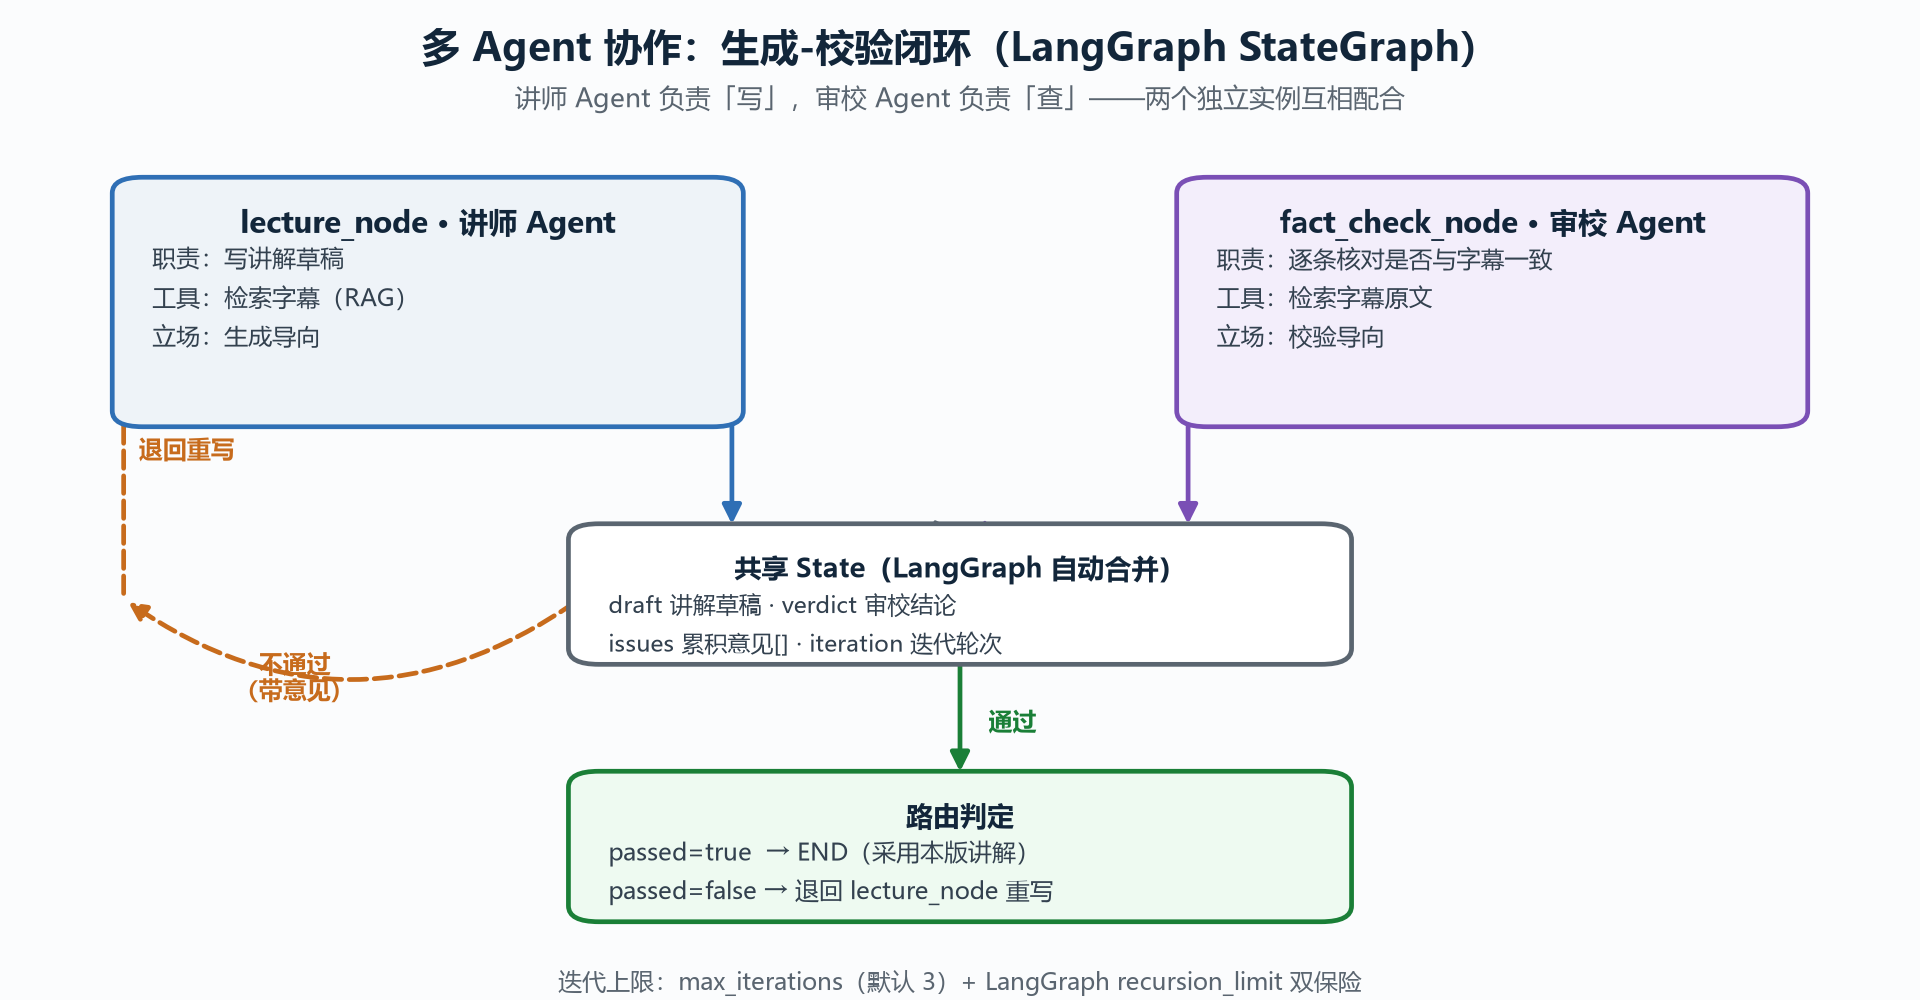
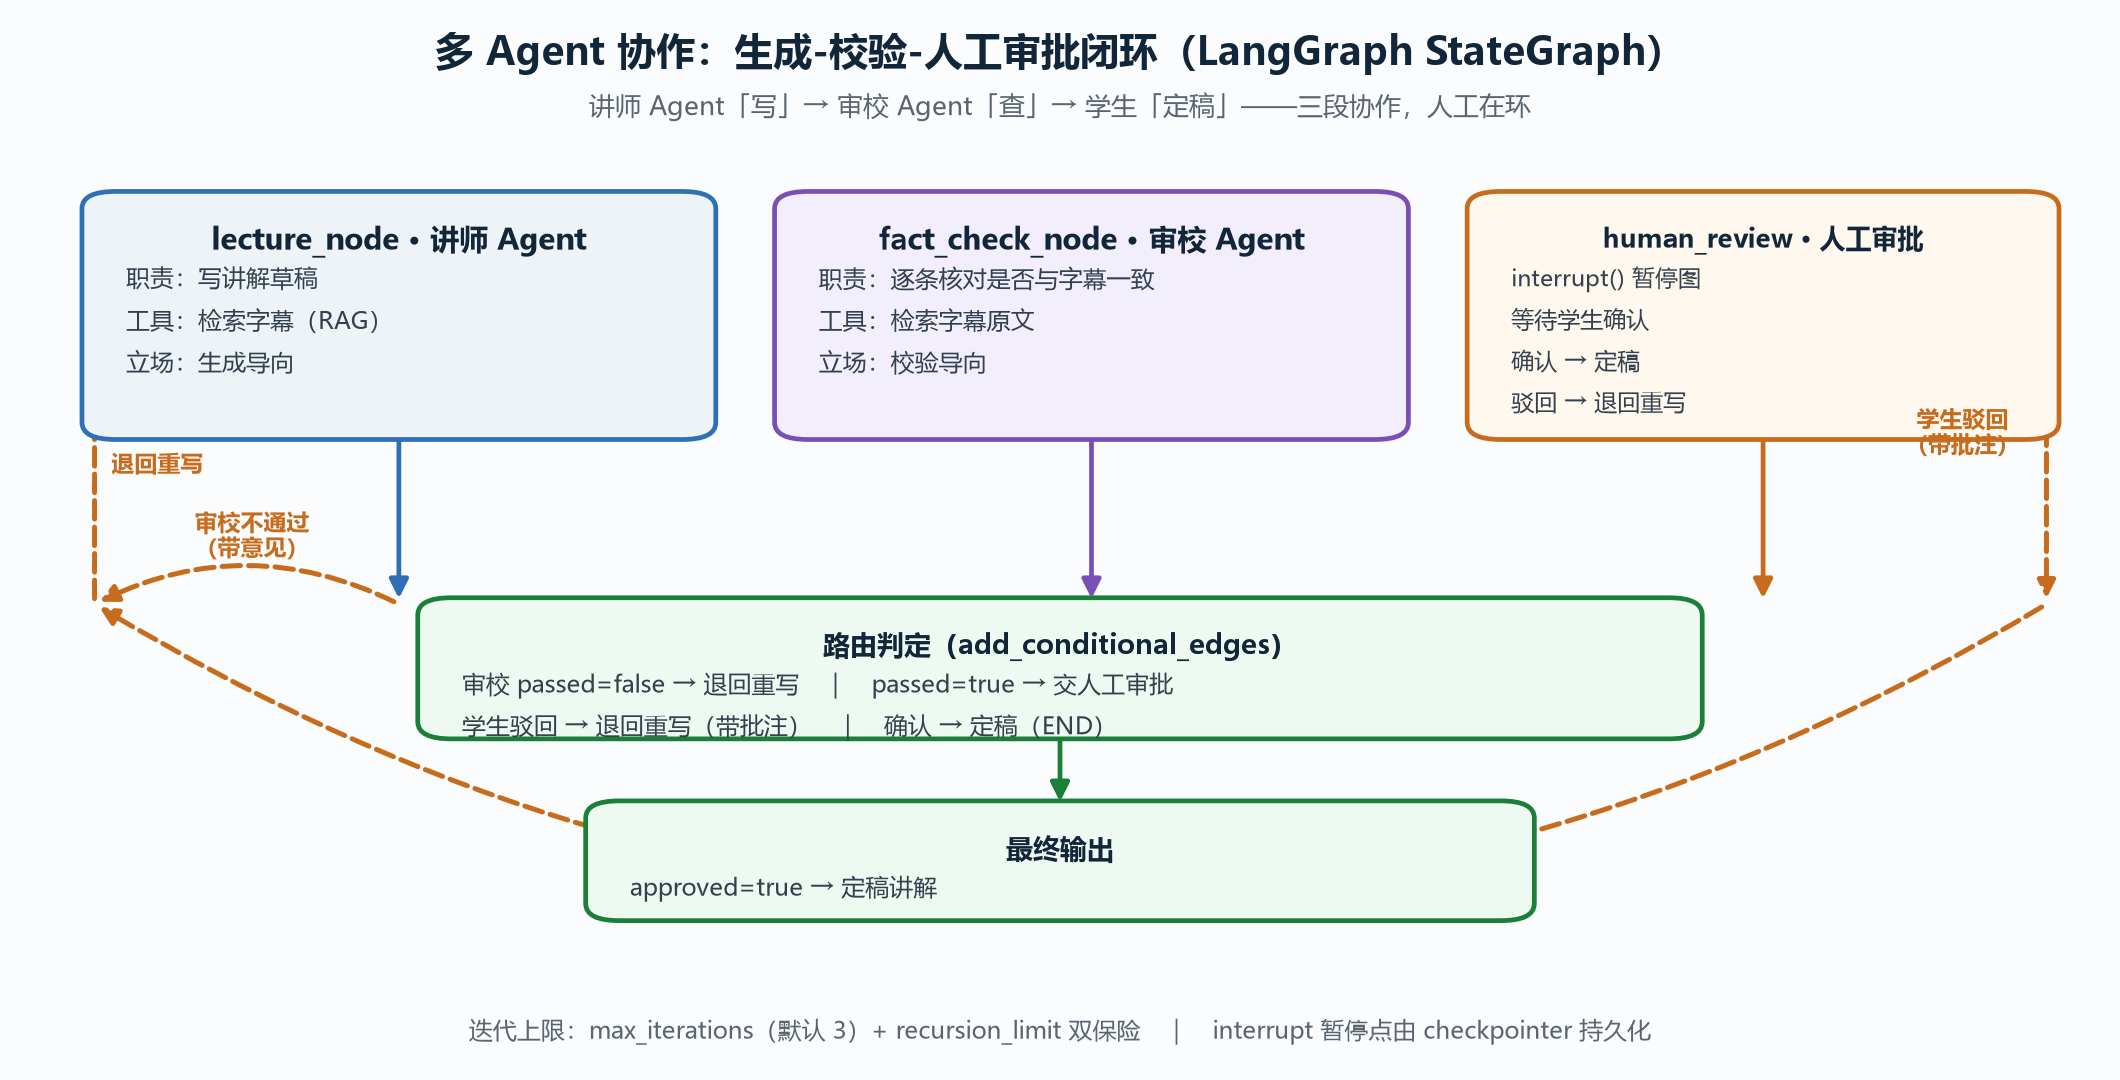
docs: 补人工在环章节、工作流图更新、链 9 演示与验证数据
- README 新增「🙋 人工在环：interrupt() 两阶段定稿」章节
- 工作流图重绘：三个节点（讲师/审校/人工审批）+ 路由 + 输出 + 两条回边
- 演示脚本新增「链 9 / 人工在环」，展示暂停待审与恢复定稿
- 链 8 演示显式关闭人工审批（避免与链 9 语义重叠）
- SUBMISSION.md 范式表补第五种范式

diff --git a/backend/asr/pipeline.py b/backend/asr/pipeline.py
@@ -422,13 +422,45 @@ class ASRPipeline:
         """
         # ---- 通道 1：本地词表匹配 ----
         try:
-            from dictionary.terminology import match_terms_in_text
+            from dictionary.terminology import match_terms_in_text, FILLER_PHRASES
             matched = match_terms_in_text(text)
 
+            # 🔴 **只有「值得学」的词才入库**（2026-10-30，用户视角实测后修）
+            #
+            # 问题：`match_terms_in_text` 匹配的是**通用词表**（3804 条，
+            # 含 study / theory / knowledge / interest / procedure…）⇒
+            # **模型本来就会的普通词也被当成「术语」塞进生词本**。
+            # 实测一节课下来生词本 **187 条，其中自动入库 173 条全是噪音**，
+            # 而本课真正的 12 个术语只有 3 条在里面
+            # ⇒ 用户的复习队列被淹没 ⇒ 「生词本」失去意义。
+            #
+            # 依据（V7 实测，21 次对照）：**术语的价值取决于「模型会不会听错
+            # 这个词」，与它专不专业无关** —— 模型已经会的普通词，配进去
+            # **零收益还招致啰嗦** ⇒ 自动入库它们是纯负价值。
+            #
+            # ⇒ 判据（留用户明确关心的 + 专业名词的典型形态）：
+            #   ① 用户自己配的 custom_terms 命中 ⇒ 用户明确关注 ⇒ 入库
+            #   ② **多词短语** ⇒ 专业名词的典型形态 ⇒ 入库
+            #      —— 但**排除口语填充短语**（`first of all` / `note that` /
+            #      `in terms of`…，它们是短语但不是术语，模型早就会说）
+            #   ③ 单个普通词 ⇒ 模型已经会 ⇒ **不入库**（留给用户手动采集）
+            custom_terms = {
+                str(t).strip().lower()
+                for t in (self.course_config.get("custom_terms") or [])
+                if str(t).strip()
+            }
             new_terms = []
+            kept = 0
             for m in matched:
+                word = m["word"]
+                low = word.lower()
+                is_phrase = " " in word
+                is_filler = low in FILLER_PHRASES
+                if low not in custom_terms and (not is_phrase or is_filler):
+                    continue          # 普通单词 / 口语填充短语 ⇒ 不入库
+                kept += 1
                 self.on_term_extracted({
-                    "word": m["word"],
+                    "word": word,
                     "translation": m["translation"],
                     "definition": m["definition"],
                     "domain": self.course_config.get("domain", ""),
@@ -436,12 +468,16 @@ class ASRPipeline:
                     "source_subtitle_id": "",
                     "origin": "local_vocab",
                 })
-                if m["word"] not in self._discovered_terms:
-                    self._discovered_terms.append(m["word"])
-                    new_terms.append(m["word"])
+                if word not in self._discovered_terms:
+                    self._discovered_terms.append(word)
+                    new_terms.append(word)
 
             if matched:
-                logger.info(f"本地词表命中 {len(matched)} 个术语")
+                logger.info(
+                    f"本地词表命中 {len(matched)} 个术语，"
+                    f"其中 {kept} 个值得学（用户配的/多词短语）已入库，"
+                    f"{len(matched) - kept} 个普通词跳过"
+                )
 
             # 命中新术语 → 热更新 Whisper 热词，下一轮识别更准
             if new_terms:

diff --git a/examples/langchain_demo.py b/examples/langchain_demo.py
@@ -101,6 +101,60 @@ def _demo_rag() -> None:
 
 
 
+
+def _demo_interrupt() -> None:
+    """演示 interrupt()：图暂停待审 → 学生确认 → 恢复定稿"""
+    import json
+
+    from langchain_core.language_models.fake_chat_models import FakeListChatModel
+    from langchain_core.messages import AIMessage
+    from langchain_core.outputs import ChatGeneration, ChatResult
+
+    import llm.chains.base as base
+    from llm.chains.workflow import LearningLoop
+
+    answers = [
+        "草稿：梯度下降沿损失函数梯度的负方向迭代更新参数。",
+        json.dumps({"passed": True, "reason": "与字幕一致", "issues": []}, ensure_ascii=False),
+    ]
+
+    class Scripted(FakeListChatModel):
+        def bind_tools(self, tools, **kwargs):
+            return self
+
+        def _call(self, *a, **k):
+            return "x"
+
+        def _generate(self, *a, **k):
+            text = answers.pop(0) if answers else "备用"
+            return ChatResult(generations=[ChatGeneration(message=AIMessage(content=text))])
+
+    _orig = base.get_chat_model
+    base.get_chat_model = lambda **kw: Scripted(responses=["x"])
+    try:
+        loop = LearningLoop(with_human_review=True)
+
+        print("① 阶段一：跑到人工审批就暂停")
+        pending = loop.run(
+            word="gradient descent",
+            context="[01:23] The update rule is theta = theta minus alpha times gradient of L.",
+            thread_id="demo-stu-1",
+        )
+        print(f"   needs_review: {pending['needs_review']}")
+        req = pending.get("review_request") or {}
+        print(f"   待审问题  : {req.get('question')}")
+        print(f"   待审讲解  : {str(req.get('draft'))[:58]}")
+        print(f"   审校结论  : {req.get('verdict')}")
+        print(f"   可选动作  : {req.get('options')}")
+
+        print("\n② 阶段二：学生点「确认无误」，恢复执行")
+        final = loop.resume(thread_id="demo-stu-1", approved=True)
+        print(f"   approved   : {final['approved']}")
+        print(f"   needs_review: {final['needs_review']}")
+        print(f"   定稿讲解   : {final['draft']}")
+    finally:
+        base.get_chat_model = _orig
+
 def _demo_workflow() -> None:
     """演示多 Agent 协作：讲师生成 → 审校核对 → 不通过则退回重写"""
     import json
@@ -137,7 +191,8 @@ def _demo_workflow() -> None:
     _orig = base.get_chat_model
     base.get_chat_model = lambda **kw: Scripted(responses=["x"])
     try:
-        graph = build_review_loop(max_iterations=3)
+        # 链 8 演示全自动闭环（不启用人工审批），人工在环见链 9
+        graph = build_review_loop(max_iterations=3, with_human_review=False)
 
         print("① 图结构（LangGraph 编译产物）")
         nodes = list(graph.get_graph().nodes.keys())
@@ -397,9 +452,13 @@ def run_offline() -> None:
     hr("链 8 / 多 Agent 协作  LangGraph 生成-校验闭环")
     _demo_workflow()
 
+    # ---- 9. 人工在环（interrupt 两阶段定稿） ----
+    hr("链 9 / 人工在环  LangGraph interrupt() 两阶段定稿")
+    _demo_interrupt()
+
     hr()
     print("离线演示完成。链路的组装、编排、结构化输出、分级策略、Agent 工具调用、")
-    print("RAG 语义检索、多轮对话记忆与多 Agent 协作闭环全部验证通过。")
+    print("RAG 语义检索、多轮对话记忆、多 Agent 协作与人工在环定稿全部验证通过。")
 
 
 def _demo_agent_tool_loop(fake_model) -> None:

diff --git a/backend/dictionary/terminology.py b/backend/dictionary/terminology.py
@@ -467,6 +467,31 @@ _MAX_NGRAM = 5
 # 停用词：这些词虽然词表里也有释义，但属于"学生本来就会"的基础词，
 # 混进术语表只会稀释专业词的权重，必须过滤掉。
 # 判定依据：不是学术术语，而是讲座中的高频口语/连接/基础动词。
+# 🔴 **口语填充短语**（2026-10-30）—— 它们是「短语」，但**不是术语**
+#
+# 为什么单列一个黑名单
+# ------------------
+# `match_terms_in_text` 匹配的是**通用词表**（3804 条）⇒ 短语也会命中，
+# 连 `first of all` / `note that` / `in terms of` 这种**口头禅/连接词**
+# 都会被当成「术语」⇒ 塞进生词本 ⇒ 复习队列被淹没。
+#
+# 依据仍是 V7 那条结论：**术语的价值取决于「模型会不会听错这个词」** ——
+# 填充短语模型早就会说 ⇒ 零价值。
+#
+# ⚠ 这是**有限清单**（覆盖课堂口语里绝大多数填充短语）。
+#    漏几个只会让生词本多几噪音条目，不会造成功能故障；
+#    **但它不能用来判断「专业性」** —— 专业性要靠 custom_terms / 领域术语。
+FILLER_PHRASES: frozenset[str] = frozenset("""
+first of all so far note that in terms of by virtue of except for
+pretty much kind of sort of a lot of lots of at all of course
+on the other hand in other words as well as well now at this point
+in fact of course for example for instance in particular
+in general in principle as a matter of fact at least at most
+in this case in that case in this way that is to say
+all right all right now let us let's let us say
+i mean you know of course so to speak
+""".split())
+
 STOPWORDS: frozenset[str] = frozenset("""
 a an the this that these those and or but if then so such as of in on at to for with by from
 is are was were be been being am do does did done have has had having will would shall should

diff --git a/README.md b/README.md
@@ -7,7 +7,8 @@
 
 > 🧠 **智能体层基于 [LangChain](https://github.com/langchain-ai/langchain) 1.x 构建**
 > —— 术语提取 / 单词讲解 / 课后摘要用 LCEL 编排，对话答疑用 `create_agent()` 做自主工具调用，
-> 并叠加 **RAG 全课语义检索** 与**多轮对话记忆**。本地 Ollama 离线运行。
+> 并叠加 **RAG 全课语义检索**、**多轮对话记忆** 与**多 Agent 协作（LangGraph）**，
+> 支持 `interrupt()` 人工在环定稿。本地 Ollama 离线运行。
 > 👉 详见 **[🧠 智能体架构](#-智能体架构基于-langchain-的四条-llm-链)**
 
 实时字幕工具，支持**在线网课**和**线下课堂**两种模式。捕获系统音频或麦克风收音，生成逐词同步字幕，点击单词即可学习。完全免费，本地运行。
@@ -275,6 +276,59 @@ RAG 把这件事交给向量检索：
 
 第 2、3、5 点正是手写循环容易写错的地方。
 
+### 🙋 人工在环：`interrupt()` 两阶段定稿
+
+前面所有环节都是全自动的 —— 但**「讲解能不能定稿」最终应该由学生说了算**。
+
+用 LangGraph 的 `interrupt()` 把这一步变成真正的「人工在环」：
+
+```
+① 审校通过 → 图不直接结束，而是 interrupt() 暂停
+   ├─ 把当前状态持久化到 checkpointer
+   └─ 抛出待审 payload（草稿 + 审校结论 + 可选项）
+
+② 前端把待审内容展示给学生
+   ├─ 「确认无误」→ Command(resume={approved: True})  → 定稿
+   └─ 「还要改」  → Command(resume={approved: False, note: "..."})
+                                  → 退回讲师重写 → 再次停在待审
+```
+
+```python
+def human_review(state):
+    decision = interrupt({
+        "type": "review_explanation",
+        "question": "这段讲解可以定稿吗？",
+        "word": state.get("word", ""),
+        "draft": state.get("draft", ""),
+        "verdict": state.get("verdict", {}),
+        "options": ["approve", "reject"],
+    })
+    return {"approved": bool(decision.get("approved")), ...}
+```
+
+#### 为什么这是框架不可替代的能力
+
+手写 while 循环要正确实现这套「暂停-持久化-恢复」语义，得自己维护断点、
+状态快照、恢复入口，且几乎必然在异常路径上出错 ——
+「进程重启后从哪继续」「并发调用怎么区分」这类问题，
+`interrupt()` + `checkpointer` 已经做进框架里。
+
+对外接口保持两阶段形态：
+
+```python
+loop = LearningLoop(with_human_review=True)
+
+pending = loop.run(word="gradient", thread_id="stu-1")
+if pending["needs_review"]:
+    # pending["review_request"] 就是给前端展示的待审内容
+    ...
+
+final = loop.resume(thread_id="stu-1", approved=True)
+```
+
+> `with_human_review=False`（默认）时不挂 checkpointer、不需要 thread_id，
+> 旧调用方式完全不受影响。
+
 ### 代码结构
 
 ```
@@ -296,7 +350,7 @@ backend/llm/
 └── qa.py             对话答疑（薄封装）
 
 examples/langchain_demo.py    链编排演示脚本（离线/真实两种模式）
-tests/test_langchain_chains.py  38 项回归守卫（Chain / Agent / RAG / Memory / Workflow）
+tests/test_langchain_chains.py  43 项回归守卫（Chain / Agent / RAG / Memory / Workflow / Interrupt）
 ```
 
 ### 关键实现要点
@@ -359,7 +413,7 @@ python examples/langchain_demo.py --live
 # 离线自检：30 项检查，覆盖模板/Schema/分支/降级
 cd backend && python -m llm.chains.verify
 
-# 回归守卫：38 项
+# 回归守卫：43 项
 cd backend && python -m pytest tests/test_langchain_chains.py -v
 ```
 

diff --git a/SUBMISSION.md b/SUBMISSION.md
@@ -82,6 +82,7 @@ backend/llm/chains/
 | **RAG（检索增强）** | 字幕语义检索 | 字幕→语义分块→向量索引→按语义召回，突破固定窗口限制 |
 | **Memory（会话记忆）** | 多轮对话 | checkpointer 按 thread_id 隔离，历史逐轮累积 |
 | **多 Agent 协作** | 讲解生成-校验闭环 | LangGraph StateGraph：讲师 Agent 写 → 审校 Agent 查 → 不通过退回重写 |
+| **人工在环（interrupt）** | 讲解两阶段定稿 | LangGraph `interrupt()` 暂停图 → 学生确认 → 恢复定稿 |
 
 Agent 的三个工具：
 
@@ -139,6 +140,40 @@ lecture_node ──► fact_check_node ──► 路由
 
 实现：`backend/llm/chains/workflow.py`（`LearningLoop` / `build_review_loop`）。
 
+### 人工在环（interrupt 两阶段定稿）
+
+前面所有环节都是全自动的 —— 但**「讲解能不能定稿」最终应该由学生说了算**。
+
+```
+① 审校通过 → 图不直接结束，而是 interrupt() 暂停
+   ├─ 把当前状态持久化到 checkpointer
+   └─ 抛出待审 payload（草稿 + 审校结论 + 可选项）
+
+② 前端把待审内容展示给学生
+   ├─ 「确认无误」→ Command(resume={approved: True})  → 定稿
+   └─ 「还要改」  → Command(resume={approved: False, note: "..."})
+                                → 退回讲师重写 → 再次停在待审
+```
+
+**为什么这是框架不可替代的能力**：手写 while 循环要正确实现
+「暂停-持久化-恢复」这套语义，得自己维护断点、状态快照、恢复入口，
+且几乎必然在异常路径上出错 —— 「进程重启后从哪继续」
+「并发调用怎么区分」这类问题，`interrupt()` + `checkpointer` 已做进框架里。
+
+```python
+loop = LearningLoop(with_human_review=True)
+
+pending = loop.run(word="gradient", thread_id="stu-1")
+if pending["needs_review"]:
+    # pending["review_request"] 就是给前端展示的待审内容
+    ...
+
+final = loop.resume(thread_id="stu-1", approved=True)
+```
+
+`with_human_review=False`（默认）时不挂 checkpointer、不需要 thread_id，
+旧调用方式完全不受影响。
+
 ---
 
 ## 四、一键验证
@@ -170,9 +205,9 @@ ollama pull qwen2.5:7b
 
 | 项目 | 结果 |
 |---|---|
-| 全量测试套件 | **485 passed** / 9 skipped（改造前 447 passed，无回归） |
+| 全量测试套件 | **491 passed** / 11 skipped（改造前 447 passed，无回归） |
 | LangChain 链离线自检 | **30 / 30** 通过 |
-| LangChain 专项回归守卫 | **38 / 38** 通过（Chain / Agent / RAG / Memory / Workflow） |
+| LangChain 专项回归守卫 | **43 / 43** 通过（Chain / Agent / RAG / Memory / Workflow / Interrupt） |
 | 链编排演示 | 四条链全部正确输出 |
 
 ---
